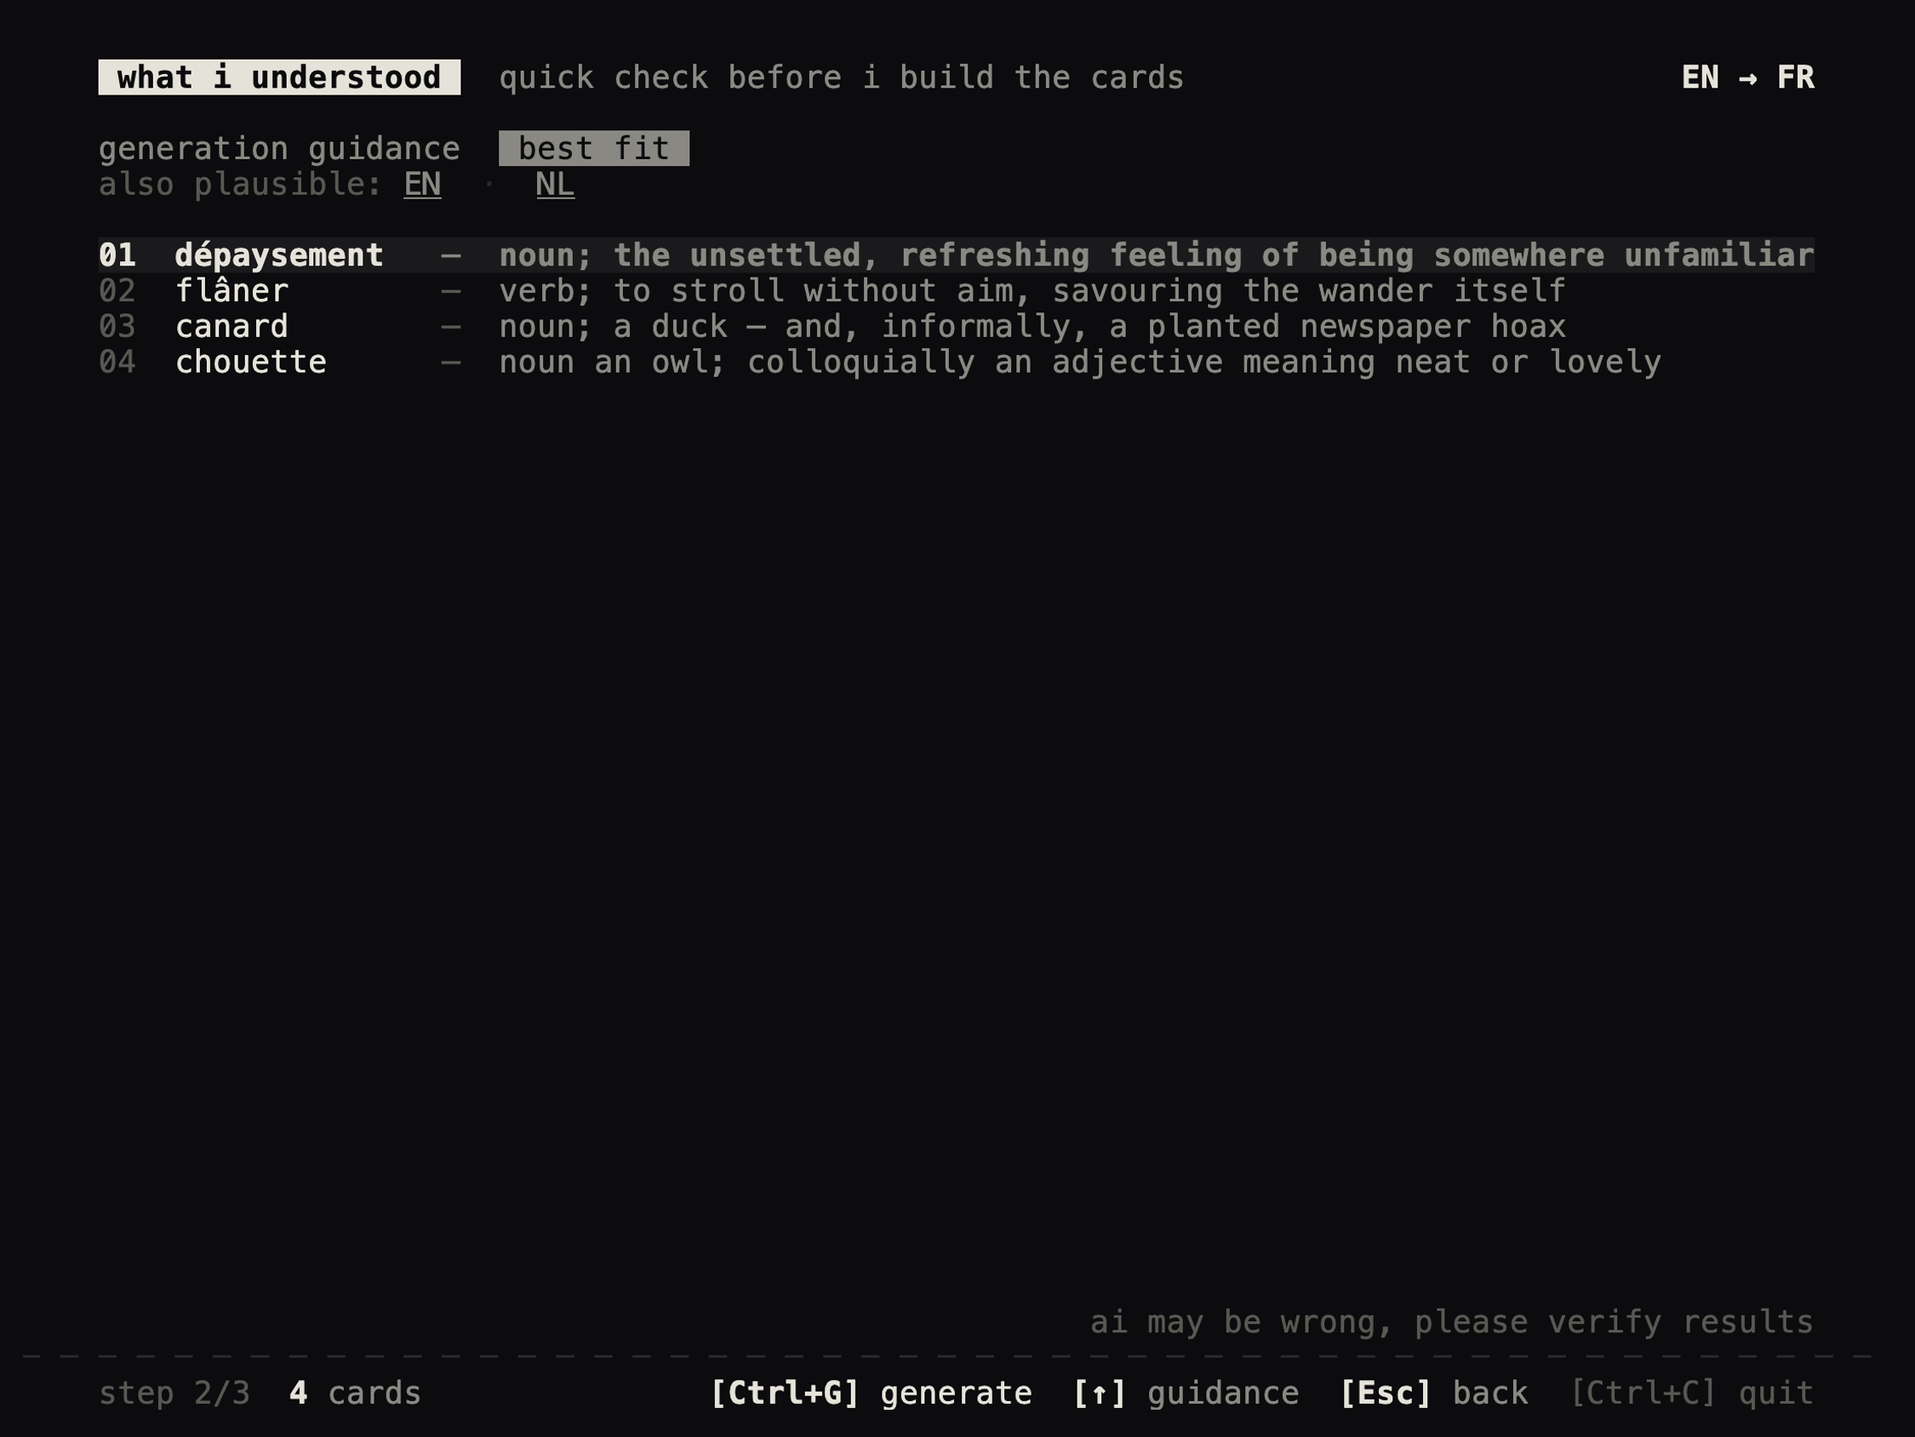
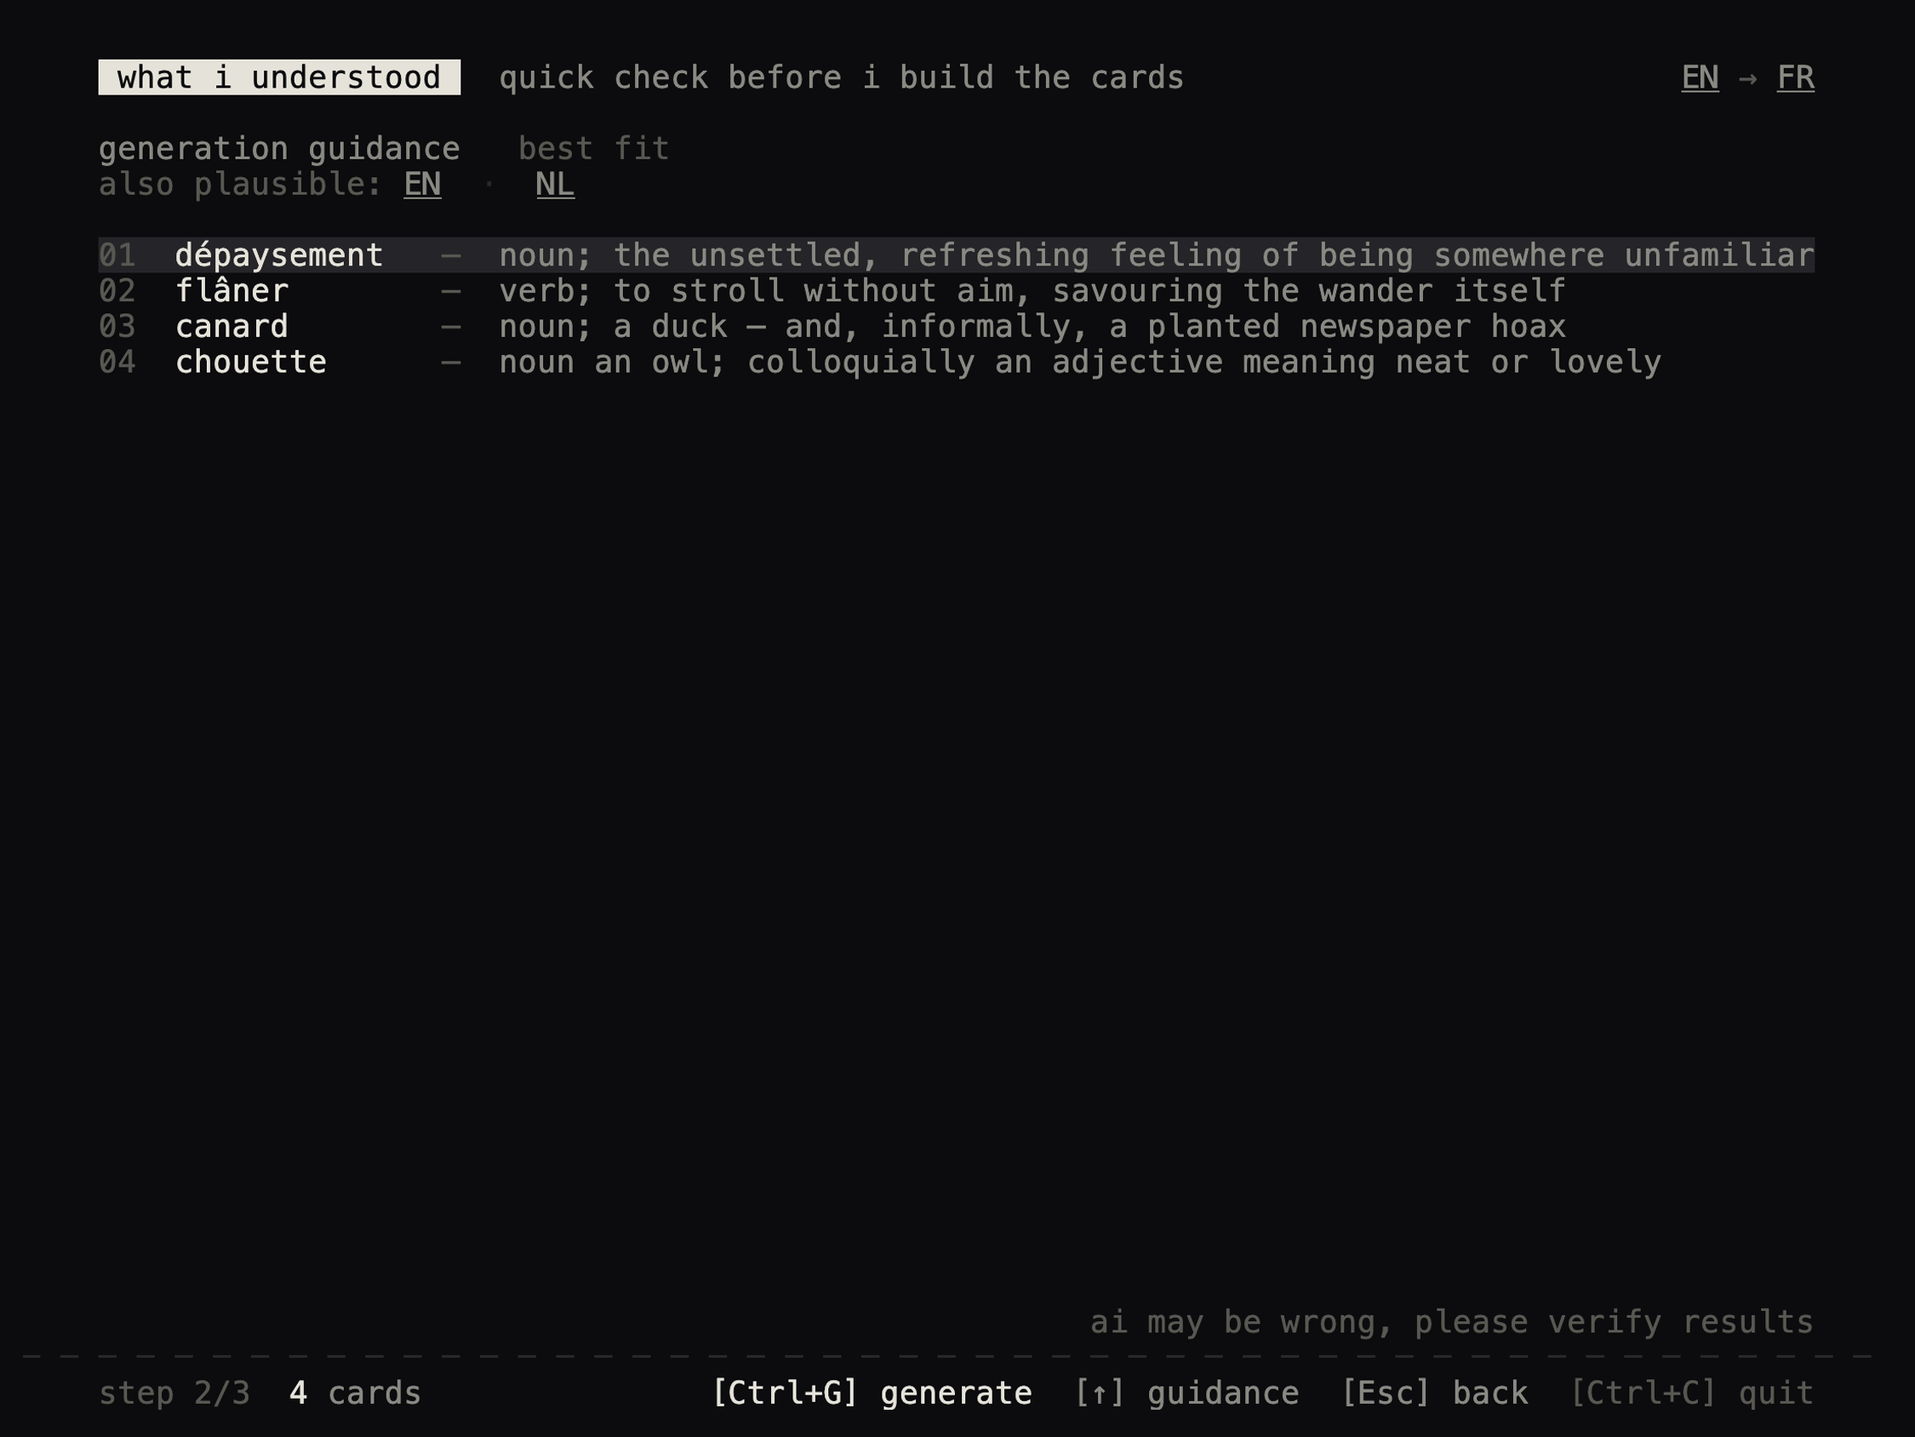
Write down the one grammar of colour the screens now follow
AGENTS.md, the state map, and the UI contract each described colour where they
happened to need it, which is how three screens ended up with three different
readings of the same token. The rule is now stated once -- ink is rank, the
background is focus, weight is a finished card, an underline is a click, and a
block behind a tag is something the user asked for -- and every passage that
repeated the old readings points back at it.

Two contract entries were already stale and are corrected in passing: the head
gutter never drew the ◐ and ○ glyphs the contract promised, and two source
refs pointed past the end of their file.

The synthetic screenshots are re-recorded from the state walker, so the review,
failure, retry, sentence-label, Esc-lifecycle, guidance, and parked-card shots
all show the new grammar. The README recording still predates it -- that one
needs the live binary and a real Gemini run.

Claude-Session: https://claude.ai/code/session_01G1hfsKPRQkCEV6Ed8Zf7J7

diff --git a/docs/tui-states/state-map.md b/docs/tui-states/state-map.md
@@ -131,7 +131,12 @@ those sentences instead of maintaining a parallel taxonomy.
 
 `WhatIUnderstood` renders one row per candidate: included selected senses
 proceed to card generation as separate cards, while `ok=false` rows stay visible
-with a struck-through term so the user can see what was rejected and why.
+with a struck-through term so the user can see what was rejected and why. The
+row is the reference implementation of the shared grammar — index `Ink::Aside`,
+term `Ink::Subject`, dash `Ink::Aside`, gloss `Ink::Detail` — and the cursor
+changes none of it, only the `HL` background beneath the whole line. A chosen
+sense is marked by its `✓` plus the step from `Ink::Detail` to `Ink::Subject`;
+an unchosen one and the `+ add more` row stay at `Ink::Detail`.
 
 ## Batch generation guidance
 
@@ -150,9 +155,10 @@ are `what's the desired level?` with `best fit`, `a1`, `a2`, `b1`, `b2`, `c1`,
 `c2`, and `what kinds of phrases?` with `best fit`, `statements`, `questions`,
 `dialogue`, `mixed`. They use
 the same fixed-track marker and two-cell `< ` / ` >` hit geometry as the
-per-card editor. The focused label is white and bold, the selected chip is
-inverted, and the entire block follows the ordinary body scroll so a short
-viewport brings the focused row into view.
+per-card editor. The focused label is white (`Ink::Subject`) against
+`Ink::Aside` for the others, the selected chip is inverted, and the entire block
+follows the ordinary body scroll so a short viewport brings the focused row into
+view.
 
 These are batch preferences, not a new screen or modal. Ordinary upward
 navigation reaches the first word before one more `↑` or `k` opens the nearest
@@ -184,20 +190,24 @@ gets the natural sentence required by its approved understanding and only then
 receives a descriptive level; that default initial generation does not target
 a band. An explicit batch-level choice is the initial-generation exception and
 constrains every draft. A later per-card level change becomes a rewrite constraint. Every
-card head keeps `term → target sentence`. Term and sentence are `DIM` for as
-long as the card is missing any of its four artifacts, and when the last one
-lands the term turns `FG` **and bold** while the sentence turns `FG`, so weight
-and brightness read as built; a card that terminally gave up never holds all
-four and stays `DIM`, and a card carrying a staged rewrite stays muted beside
-its struck sentence. Nothing on the head goes bold for being selected —
-selection is the `HL` row background alone.
+card head keeps `term → target sentence`. The term is `DIM` for as long as the
+card is missing any of its four artifacts, and when the last one lands it turns
+`FG` **and bold**; the target sentence stays `DIM` throughout, because the word
+is the subject of the row and the sentence is what explains it. Glyph, number,
+`→`, and trailing cost are `Ink::Aside`, which makes the head structurally the
+same row as a `WhatIUnderstood` candidate. A card that terminally gave up never
+holds all four and stays `DIM`, and a card carrying a staged rewrite stays muted
+beside its struck sentence. Nothing on the head goes bold for being selected —
+selection is the `HL` row background (`#26262a`) alone, and it changes neither
+ink nor weight anywhere in the application.
 Every card state renders the same step block immediately after the last line
 of that head, including when the target sentence wraps: up to three
 old-style rows — `scene` (the written material, i.e. the meta slot), `voice`
 (audio), `manga` (the whole visual phase) — each a state glyph, a five-letter
 label, and its own incremental cost in one shared value column. A
-row appears only once its work started. A ready row shows `✓` and an
-underlined label that clicks open — `scene` the card's cache cell in the
+row appears only once its work started. A ready row shows a quiet `Ink::Aside`
+`✓` and an `Ink::Detail`, underlined label that clicks open — `scene` the card's
+cache cell in the
 system file manager, `voice` the audio file, `manga` the rendered page; a
 label without a recorded target stays plain. A ready row states either its
 cost or, when the artifact came back free from the cache, `cached` — never
@@ -219,12 +229,12 @@ later on the `voice` row, but only while the card is collapsed:
 ```
 
 The actual register, sentence-type, and CEFR values replace the three
-example values. Each value remains a separate tag with dark `BG` letters.
-Unchanged actual tags use the gray `DIM` background — the same color used for
-the compact target sentence's foreground — while explicitly changed or exactly
-fulfilled pinned tags use a white background without bold. If a target is only
-fulfilled as a best effort, its atomic group is the gray actual tag, muted
-`· aimed for`, and the requested white tag. Adjacent axis groups have one
+example values. A background behind a tag means the user asked for that value, so an unchanged
+actual tag carries none and reads as plain `Ink::Aside` text, while an
+explicitly changed or exactly fulfilled pinned tag is a white block with dark
+letters and no bold. If a target is only fulfilled as a best effort, its atomic
+group is the plain actual tag, muted `· aimed for`, and the requested white
+tag. Adjacent axis groups have one
 ordinary-background space between them. At narrow widths whole groups may
 wrap from the `voice` row onto the `manga` row at that same column.
 Retry history appears once in the card head instead of beside the tags; when
@@ -251,7 +261,8 @@ are `how should it sound?`, `what kind of phrase?`, and `what's the desired leve
 The following note row is labelled `one more thing` and uses the single-line
 `TextField` with the placeholder `say what should change`.
 
-The active question is white and bold. The selected chip has a white background.
+The active question is white (`Ink::Subject`) while the others are
+`Ink::Aside`. The selected chip has a white background.
 Every carousel is permanently bracketed by the two-cell direction controls
 `< ` and ` >`; both cells are clickable, focus that control's own row, and move
 one adjacent choice without wrapping past either boundary. All three tracks use
@@ -263,8 +274,8 @@ into one marker segment per hidden choice; every adjacent step transfers exactly
 segment from the trailing side to the leading side. Segment widths differ by at
 most one cell, spare cells sit nearest the selected chip on each side, and every
 cell of a segment belongs to the same clickable target. The nearest marker uses
-`DIM2`, the next farther marker uses `RULE`, and every marker farther away uses
-`HL`, saturating at `HL`. On a legacy
+`DIM2`, the next farther marker uses `RULE`, and every marker farther away is the
+page background, so the rail fades out without borrowing the cursor highlight. On a legacy
 axis with no selected value, `—` is flanked by one two-cell marker on each side
 inside the same shared track; both cells of either marker are clickable. Legacy
 metadata renders no collapsed inline summary but remains tunable through this
@@ -283,8 +294,8 @@ Every chip or note edit is pending immediately: the old target sentence is
 struck through and its current metadata and step rows are muted. While the
 editor is open, its white selected chips show the staged choices below the
 rows; after it closes, the staged choices return on the `voice` row as
-summary tags, gray for unchanged values and white without bold for changed or
-pinned values. The editor carousel remains on the requested target; when it
+summary tags, plain text for unchanged values and a white block without bold for
+changed or pinned values. The editor carousel remains on the requested target; when it
 differs from the generated attribution, muted `current` plus the actual value
 makes that distinction explicit. Regeneration carries this complete requested
 preset. An explicitly changed or already pinned axis may differ only when the
@@ -449,8 +460,10 @@ not forwarded to card generation.
 - `body` renders the active screen. Modals are rendered last by drawing into a
   centered rectangle over `body` using `Clear + Block::bordered()`.
 - `footer` renders the active screen's keyboard hints as a tiered, width-aware
-  status bar: the primary action leads in bright ink, secondary actions follow,
-  and conventional keys (navigation, quit) are dimmed. When the row is too narrow
+  status bar: three steps of one ink each — the primary action in `Ink::Subject`,
+  secondary actions in `Ink::Detail`, and conventional keys (navigation, quit) in
+  `Ink::Aside`; key and label always share their tier's ink, and no footer hint is
+  ever bold. When the row is too narrow
   the dim hints are shed first — the primary action and quit never clip. The
   finished final permanently shows `[Esc] new cards` in the same muted treatment
   as quit and directly before it. The first `Esc` changes that action to `[Esc]

diff --git a/AGENTS.md b/AGENTS.md
@@ -383,13 +383,32 @@ change becomes a rewrite constraint. Legacy `easy`, `takes practice`/`balanced`,
 and `challenging`/`stretch` cache values reopen as `a2`, `b1`, and `b2`
 respectively.
 
-A card head that holds all four artifacts turns its term `FG` **and bold** and
-lights its target sentence `FG`; while any artifact is still owed — including a
-terminally failed card, which never holds all four — term and sentence stay
-`DIM`, and a card with a staged rewrite keeps the muted pending term beside its
-struck sentence. Weight and brightness therefore mean built, never focused:
-selection is the row's `HL` background alone, and nothing on the head goes bold
-for being selected. Every card state renders the same **step block**
+One grammar of colour covers the whole TUI, and each of its three channels
+carries exactly one meaning (`src/tui/palette.rs`). **Ink is rank inside the
+row, never state**: `Ink::Subject` (`FG`) is what you came for — a built term,
+a chosen value, a destination file, a broken artifact; `Ink::Detail` (`DIM`) is
+whatever explains it — glosses, sentences, questions, labels; `Ink::Aside`
+(`DIM2`) is the bookkeeping beside it — indices, costs, timings, separators,
+inactive markers; `rule()` draws structure. **Background is focus and nothing
+else**: the row under the cursor takes `HL` (`#26262a`, raised so it carries the
+signal alone) and keeps the same inks as its neighbours. **Weight is one thing**:
+`Modifier::BOLD` marks a card that holds all four artifacts, and appears nowhere
+else in the application. Two consequences follow: an **underline means
+clickable** and takes its brightness from its rank, so the same affordance reads
+at three depths without three link colours; and a **background behind a tag or
+chip means the user asked for that value**, so a model-chosen value is plain
+text and a pinned one is a white block.
+
+A card head that holds all four artifacts turns its term `FG` **and bold**; its
+target sentence stays `DIM` whatever happens, because the word is the subject of
+the row and the sentence explains it. While any artifact is still owed —
+including a terminally failed card, which never holds all four — the term stays
+`DIM` too, and a card with a staged rewrite keeps that muted term beside its
+struck sentence. The glyph, the number, the `→` and the trailing cost are
+`Ink::Aside`, which makes the head the same row as a `WhatIUnderstood`
+candidate: index, term, separator, explanation. Weight and brightness therefore
+mean built, never focused: selection is the row's `HL` background alone, and
+nothing on the head goes bold for being selected. Every card state renders the same **step block**
 beginning immediately after the last line of the head's target sentence,
 including when that sentence wraps: up to three old-style rows — `scene`
 (the written material, i.e. the meta slot), `voice` (audio), `manga` (the whole
@@ -397,10 +416,14 @@ visual phase) — each a state glyph, a five-letter label, and its own
 incremental cost (`StepRow` in `src/tui/screens/your_cards.rs`). Every state
 starts in one shared value column right after the seven-cell label column.
 A row appears only once its work started.
-A ready row shows `✓` and an underlined label that clicks open: `scene` the
-card's cache cell (the parent of `meta.json`) with the system handler,
-`voice` the audio file, `manga` the rendered page; a label without a
-recorded target renders plain and does not click. A ready row states either
+A ready row shows a quiet `Ink::Aside` `✓` and an `Ink::Detail` label,
+underlined when it clicks open: `scene` the card's cache cell (the parent of
+`meta.json`) with the system handler, `voice` the audio file, `manga` the
+rendered page; a label without a recorded target renders plain and does not
+click. The one artifact that terminally gave up is the exception and the only
+`Ink::Subject` span a card block ever draws — its `✗` and its label both — so a
+healthy screen holds no bright spot outside its built terms and a broken card
+announces itself without a word of status. A ready row states either
 its incremental cost or, when it cost nothing because the artifact came back
 from the cache, `cached` — never both, and never an empty value column for a
 cache hit. The active row is its spinner and its label alone — no words, no
@@ -420,7 +443,9 @@ narrow widths whole tags may
 continue at that same column on the `manga` row, and when the complete atomic
 sequence cannot fit the whole summary hides while
 the rows remain and the card head stays the mouse entry into tuning. A staged
-rewrite mutes the step rows while the staged tags remain visible. Retry
+rewrite parks the step rows one rank quieter (`Ink::Aside`) while the staged
+tags remain visible; the expanded preview, which reads a rank higher, parks at
+`DIM`. Retry
 history lives on the card head instead of adding volatile status beside the
 tags.
 The tune rows sit
@@ -429,10 +454,11 @@ blank row, before the expanded metadata and never to the rows' right. If
 the live editor block fits the viewport, lighting it anchors the selected card
 head at the top of the body; shorter viewports instead scroll only far enough to
 keep the focused row visible.
-Unchanged actual tags use a gray background; explicitly changed or exactly
-fulfilled pinned tags use a white background with dark letters and no bold. If
+Unchanged actual tags carry no background at all and read as plain `Ink::Aside`
+text; explicitly changed or exactly fulfilled pinned tags use a white background
+with dark letters and no bold. If
 a pinned target could not be fulfilled exactly, the generated actual value stays
-gray and is followed by muted `· aimed for` plus the requested value in a white
+plain and is followed by muted `· aimed for` plus the requested value in a white
 tag. The actual value remains the attribution of what was generated; the white
 value remains the target for a later regeneration. Legacy cached approximation
 records that predate separate actual-value storage show only muted `aimed for`
@@ -441,7 +467,8 @@ plus the requested white tag and never invent an actual value.
 The editor's three carousel questions are `how should it sound?`, `what kind of
 phrase?`, and `what's the desired level?`. The note label is `one more thing`, and its
 placeholder is `say what should change`. The active carousel question is white
-and bold, and the selected chip has a white background. Every carousel is
+(`Ink::Subject`) against `Ink::Aside` for the rest, and the selected chip has a
+white background. Every carousel is
 permanently bracketed by the two-cell direction controls `< ` and ` >`; both
 cells are clickable, focus that control's own row, and move one adjacent choice
 without wrapping past either boundary. All three tracks use one render-time
@@ -452,8 +479,9 @@ as its choice index increases. Every adjacent step transfers one hidden-choice
 segment from the trailing rail to the leading rail. Segment widths differ by at most one cell,
 spare cells go nearest the selected chip on each side, and every cell of a
 segment belongs to the same clickable target. The nearest marker uses
-`DIM2`, the next farther marker uses `RULE`, and every marker farther away uses
-`HL`, saturating at `HL`. A legacy axis with no selected value shows `—` with
+`DIM2`, the next farther marker uses `RULE`, and every marker farther away is the
+page background — the rail fades out rather than stopping, and it deliberately
+does not borrow the cursor highlight, so it cannot brighten when a row does. A legacy axis with no selected value shows `—` with
 one two-cell marker on each side inside the shared track; both cells of either
 marker are clickable.
 
